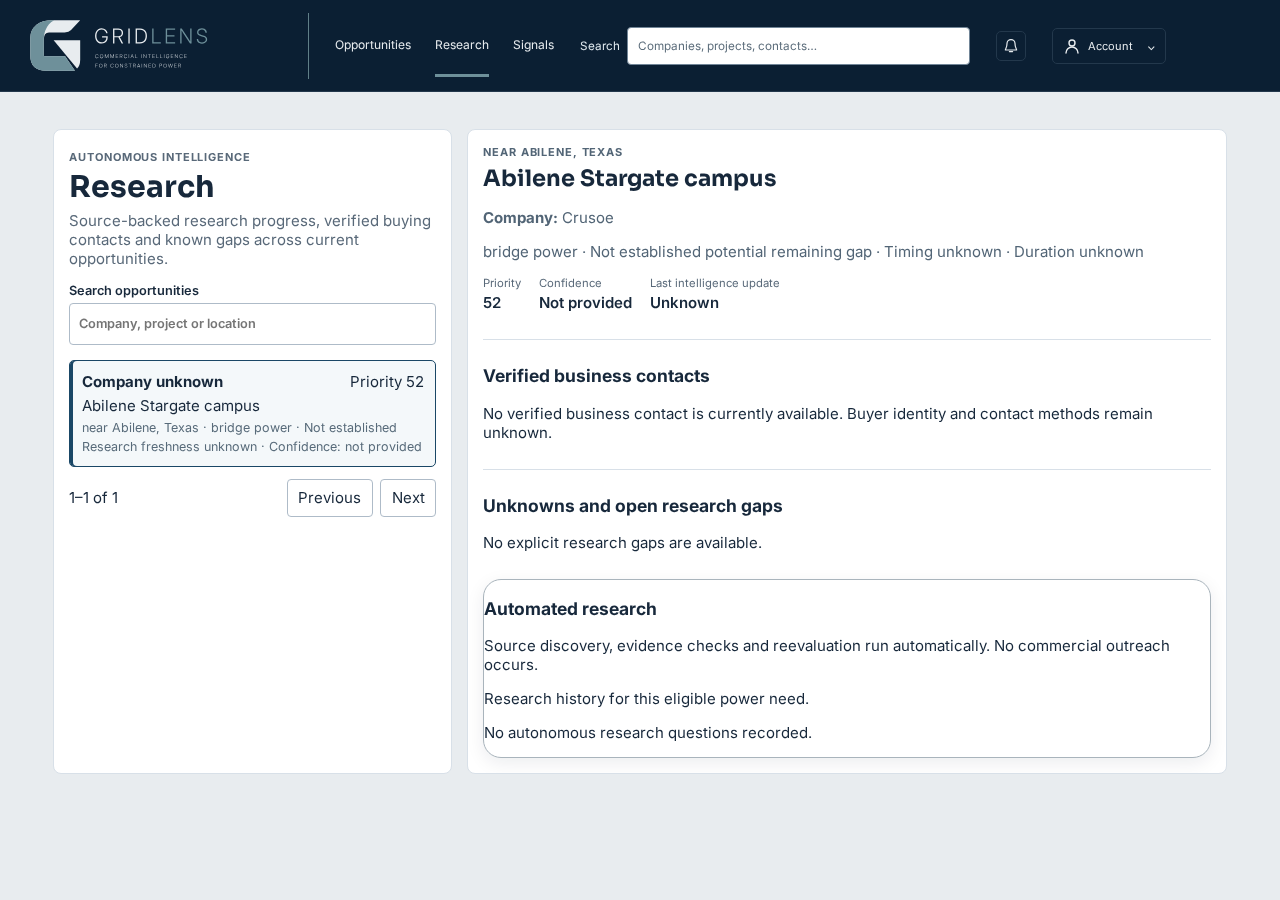
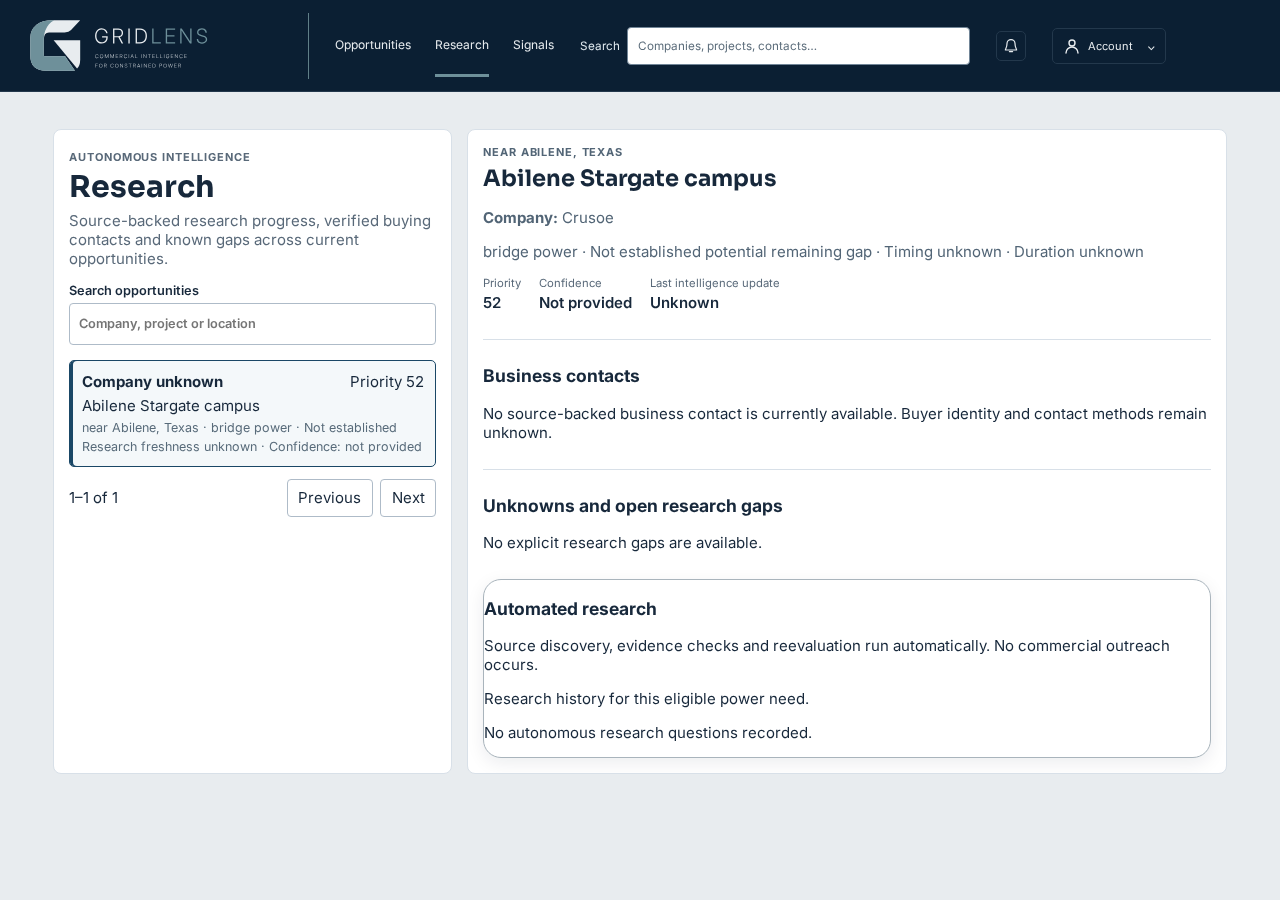
Record final release browser acceptance

Changed region(s): [[0.375, 0.4044, 0.9375, 0.4667]]

diff --git a/docs/validation/commercial-release-20261026/browser-operations.md b/docs/validation/commercial-release-20261026/browser-operations.md
@@ -1,6 +1,6 @@
 # Commercial release browser and operations acceptance — 2026-10-26
 
-Status: **PARTIAL — A and D contact-display checks, B and C scenario diagnostics passed; four-case commercial acceptance is not met.** A, B, and D all retain unknown electric need/gap/timing/buyer fields; B is an upstream well permit rather than midstream compression/processing, and C is a historical in-use bridge rather than open procurement. Production runtime evidence also remains unavailable. UI commits `e967048` and `6cec760` clarify the Signal + ACTION NOW badge as `Discovery call · Power need unconfirmed`, label owner-company phone methods explicitly, and call method timestamps “Published method source checked”; backend enums, tiers, scores, layout, colors, and workflows are unchanged. Local browser execution used app/backend source `29c4fe0` plus these frontend commits. This is not a production readiness claim.
+Status: **PARTIAL — four persisted source-backed browser scenarios passed their defined checks, but full commercial acceptance is not met.** A and B have unknown electric demand/gap/timing/buyer status; B is an upstream well permit diagnostic, not midstream compression/processing. C is a historical in-use bridge, not open procurement. D proves a cited owner-company route, not an actionable qualified purchase. Production runtime evidence remains unavailable. The final frontend tree is `1a68f92a4a863c0f36e0b33499b556e400abacb7` (web commit `fe9a9d2`, source commit `37b0de3`, final wording commit `fe9a9d2`); it contains the Signal + ACTION NOW badge `Discovery call · Power need unconfirmed`, explicit owner-company route labels, method dates described as source checks, and retained-claim timestamps described as evidence assessment. Backend enums, tiers, scores, layout, colors, and workflows are unchanged. This is not a production readiness claim.
 
 ## Real-corpus browser cases
 
@@ -12,14 +12,20 @@ The controller's [availability receipt](../system-repair-20261026/input-availabi
 |---|---|---|
 | A | Source-backed data-center owner, facility/activity gap, timing, buyer and contact | **PARTIAL — PECOS COUNTY DATA CENTER project `5796a14e-c301-4f3e-944e-9747ba613d15`, need `bd014849-c79f-442d-b861-81a23d438d5d`, official TDLR evidence `dda4787a-c1d5-47c3-9e59-3df667bb11d0`.** TDLR names Amazon Data Services, Inc. as owner, Kali Dickerson as owner representative, and gives registrant-estimated dates. A separate cited owner-company route links to `tel:2062664064` and matches the exact source phone `(206) 266-4064`; the named person has no personal phone/email method. Power MW, utility service date, temporary-power relevance, residual gap, procurement and buyer authority remain unknown. It is a discovery route, not a qualified opportunity. |
 | B | Source-backed midstream compression/processing need | **PARTIAL DIAGNOSTIC ONLY — upstream well permit, not midstream.** Texas W-1 permit project `b8a992fc-b136-4267-8b60-98431c6fa4bf`, need `cf5c53c9-3d9f-4acf-9443-6e8987a97b16`, evidence `ae4dcc63-1af3-44eb-bc80-cbec7e5448b4`. RRC evidence supports a drilling permit and operator association; the need rationale says no power gap is required. Power demand, timing, duration, supply and buyer authority remain unknown. Opportunities search does not show the permit title; it groups by DE V Operating, LLC, with buyer authority marked unknown. This is not a midstream or qualified opportunity. |
[2 lines of base64/hex data omitted]
 | D | Source-cited contact tied to an actionable next step | **PARTIAL PASS — contact-to-action display only.** DAL130 / Circle T Ranch DAL130 Campus project `d94e32ef-93fd-44ee-8f16-1347d8cd0dbf`, need `8160e7ee-2cf7-483f-9dc2-de29a2104fc2`, TDLR evidence `60df52b8-35d9-4196-8e8e-5f8dd0f62b23`. Official TDLR source names Circle T Owner LP, owner representative Zaid Arzate, and company phone `571.731.1698`; the separate company-labeled action links exactly to `tel:5717311698` and is cited to retained source evidence. The named person has no personal method. The page displays package responsibility as something to confirm; buyer authority, temporary need, MW, dates, duration, and gap remain unknown. This is not a qualified purchase. No call or outreach was initiated. |
 
-The real-case Playwright helper in [`commercial_real_cases.spec.ts`](../../../web/tests/commercial_real_cases.spec.ts) checks stable IDs, source hashes, unknown fields and display expectations while browsing retained records through Opportunities, Research, Signals, Search, and mobile detail. It does not mock or seed data. Initial A/B diagnostics used `gridlens_release_browser_combined`; C used `gridlens_release_browser_cases`. Final A/D contact-refresh checks used isolated clone `gridlens_release_browser_contacts_final`, cloned from `gridlens_release_contacts_pipeline`; the source DB was not mutated. The [contact-refresh manifest](real-cases-contact-refresh.json) binds the routes to exact TDLR source quotes, retained evidence IDs and hashes. Five test executions passed across these runs (A twice, B, C, D); they represent four distinct cases, not five. A and D are partial as described above, B is partial, and C passes only the historical bridge display scenario. Screenshots include the original A/B/C paths above plus [A contact mobile](screenshots/A-contact-mobile.png), [D workspace](screenshots/D-workspace-desktop.png), [D Evidence](screenshots/D-evidence-desktop.png), [D Research](screenshots/D-research-desktop.png), [D mobile contact](screenshots/D-contact-mobile.png), and [D mobile search](screenshots/D-search-mobile.png). Browser ran in headless Chromium via Playwright 1.63.0. Reproduce the final A/D run from `web/` with `GL3_REAL_CASE_MANIFEST=../docs/validation/commercial-release-20261026/real-cases-contact-refresh.json DATABASE_URL='postgresql+psycopg://gridlens:gridlens@127.0.0.1:5432/gridlens_release_browser_contacts_final' SAVED_BROWSE_ENABLED=true UV_PROJECT_ENVIRONMENT=/workspace/gl3-release/browser/backend/.venv npm run test:commercial-real`. The A/B and C commands remain in the prior receipt revision history; their manifests and databases are unchanged. No external acquisition, mock, seed, call, outreach, or worker was involved.
+The real-case Playwright helper in [`commercial_real_cases.spec.ts`](../../../web/tests/commercial_real_cases.spec.ts) checks stable IDs, source hashes, explicit unknowns, and display expectations while browsing retained records through Opportunities, Research, Signals, Search, and mobile detail. It does not mock or seed data. Final runs used isolated clones: `gridlens_release_final_browser_native` (A/B, from the frozen native cohort), `gridlens_release_final_browser_bridge` (C), and `gridlens_release_final_browser_contacts_bound` (A/D, cloned after contact identity binding from `gridlens_release_contacts_pipeline`). Each was migrated to schema `0046_import_meta_reparse`; saved-browse projections were rebuilt only inside the disposable clones. No source database was mutated.
+
+On the final frontend/backend runtime, the real-case suite passed **A/B 2/2, C 1/1, and A/D 2/2**. These are four distinct cases; A runs twice in separate cohorts. Current contact manifest [real-cases-contact-refresh.json](real-cases-contact-refresh.json) binds A and D to exact TDLR source quotes, route hrefs, retained evidence IDs, and hashes. The current screenshots include A/B workspace, Evidence, Research, Search, A/D mobile contact, and C Signals/Opportunities/Research views. Browser version is Playwright 1.63.0, using its Chromium executable `/home/agent/.cache/ms-playwright/chromium-1243/chrome-linux64/chrome` in headless mode.
+
+The final frontend tree hash is `1a68f92a4a863c0f36e0b33499b556e400abacb7`, identical in `/workspace/gl3-release/gate` and root web tree `/workspace/gl3`. The final root backend used for the A/B/C/D runs is commit `899e2889b3a1b7dedbfb74c7addbfee484f545c0`, backend tree `15d841cede446686d033b83b07d1e8a4a3ed2879`; imports were verified from `/workspace/gl3-release/backend-gate/backend/src` with `/workspace/gl3/backend/.venv`. The 121-test final UI regression passed on that exact frontend tree; its local API process came from the integrated-gate backend tree `a32e170a198f7f14caf5a060531f2e6386d9deb1`. Independent review found the sole application-code difference between backend trees is the PostgreSQL-only DDL conditional; normal PostgreSQL runtime behavior matches. Root separately reported final backend CI on `899e288` passing 3,138 tests with one skip and 121 browser tests from the previous UI tree. Do not describe the local full UI run as having imported backend tree `899e288`.
+
+The full UI regression (`npm run test:ci`) passed **121/121** in 2.9 minutes on the final frontend tree. `npm run typecheck`, `npm run build`, and focused desktop/mobile assertions for CompanyContacts, Research, and Buying Chain passed. An earlier full-run attempt had one 30-second timeout in `dashboard.spec.ts`; the isolated dashboard rerun passed, and the final 121-test run had no failures. A first C probe against a newly cloned database found an unavailable saved-browse cohort; after a one-shot projection rebuild in its isolated clone, the final C test passed. One attempted contact run also failed sign-in because the shell-expanded bcrypt hash was corrupted; loading the local ignored environment through python-dotenv resolved the harness issue, after which all A/B/C/D tests passed. No external acquisition, mock, seed, phone call, outreach, or worker was involved. Worker, monitoring, paid/model/contact research paths were disabled for local browser runs.
 
 The existing synthetic browser tests remain software checks only and are not counted toward the four cases. The historical `first_path.spec.ts` live-browser suite was run against the six-project Austin copy: all four checks failed because the historical acceptance cohort is absent. Three failures were direct missing-data conditions (no El Paso, Georgia/Chicago, or retained Texas data-center buyer-authority rows). The fourth opened an actual retained Signal, then showed zero rows after searching its displayed permit title. A separate direct API read of the same need by its shorter canonical title returned it, so the UI/search discrepancy remains an investigation lead rather than a confirmed candidate defect; this small verifier does not contain the named 25-project cohort.
 
-The deterministic `npm run test:ci` Playwright regression project passed **120 tests** at `8934bf7` before the narrow UI repair. After the repair, focused regressions passed 2/2 for the contact card at 1280px and 390px; the focused action-label test previously passed at `e967048`. `npm run typecheck` passed. Final A/D real-case browser checks passed 2/2 after both UI commits. The original A/B/C real-case runs passed 3/3. Route-mocked regression evidence is software verification only. The isolated local auth setup required loopback `TRUSTED_ORIGINS` in its ignored `.env`; no product source change was made for that setup issue.
+An earlier browser baseline passed 120 tests at `8934bf7`; that receipt predates this candidate. Final regression, build, typecheck, and real-corpus results for the current frontend and backend candidates are recorded above. Route-mocked regressions are software verification only. Isolated browser runs use loopback trusted origins and a local-only password file; no product source change was made for local authentication.
 
 ## Local runtime and worker
 
